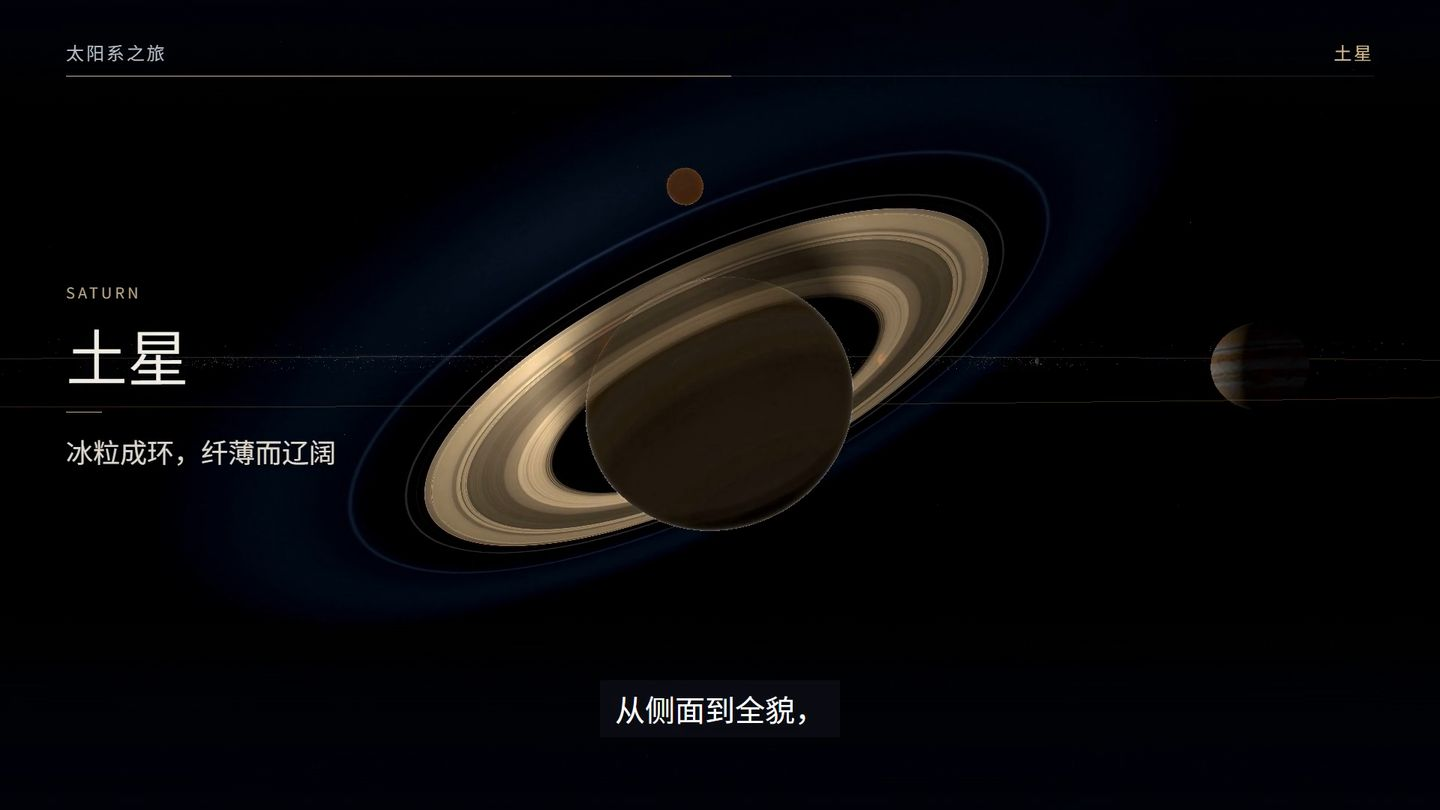
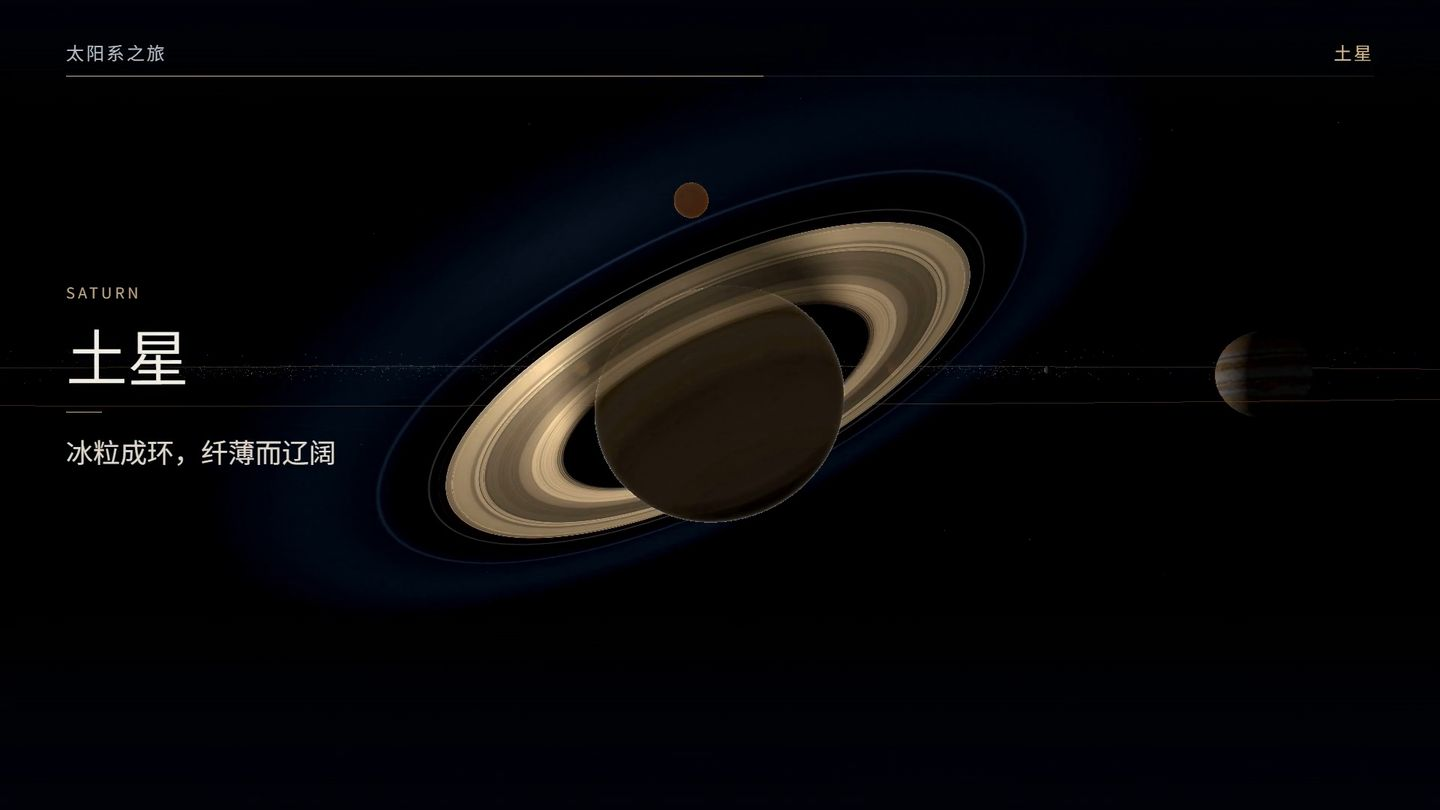
fix(site): 首页大图避开被截断的字幕条
第 61 秒那一帧底部带半句「从侧面到全貌，」和字幕底框，做封面是瑕疵；改用第 64 秒的完整土星环。同时把「做成」包进不换行片段，手机端标题不再拆字。

diff --git a/docs/site/index.html b/docs/site/index.html
@@ -14,7 +14,7 @@
   </header>
   <main class="shell">
     <section class="hero" aria-labelledby="tagline">
-      <h1 id="tagline">把文章、数据和素材做成<span>可编辑</span>的短视频。</h1>
+      <h1 id="tagline">把文章、数据和素材<span>做成</span><span>可编辑</span>的短视频。</h1>
       <figure>
         <a href="work-solar-system.html" aria-label="查看《太阳系之旅》">
           <img src="assets/hero.jpg" width="1440" height="810" alt="从斜上方看土星，金色环带映在深空中">

diff --git a/scripts/build-site-assets.py b/scripts/build-site-assets.py
@@ -119,8 +119,9 @@ def main() -> None:
             save_frame(work.video, work.poster_at, directory / f"poster-{work.slug}.jpg")
             if work.clip_start is not None:
                 save_clip(work, work.clip_start, directory / f"clip-{work.slug}.mp4")
-        # At 61s the rings fill more of the composition than the earlier 58s poster.
-        save_frame(WORKS[0].video, 61, directory / "hero.jpg")
+        # At 64s the rings fill the frame and no subtitle band is burned in; 61s
+        # carried the second half of a two-line caption ("从侧面到全貌，").
+        save_frame(WORKS[0].video, 64, directory / "hero.jpg")
         save_social_preview(directory)
 
         outputs = sorted(directory.iterdir())
